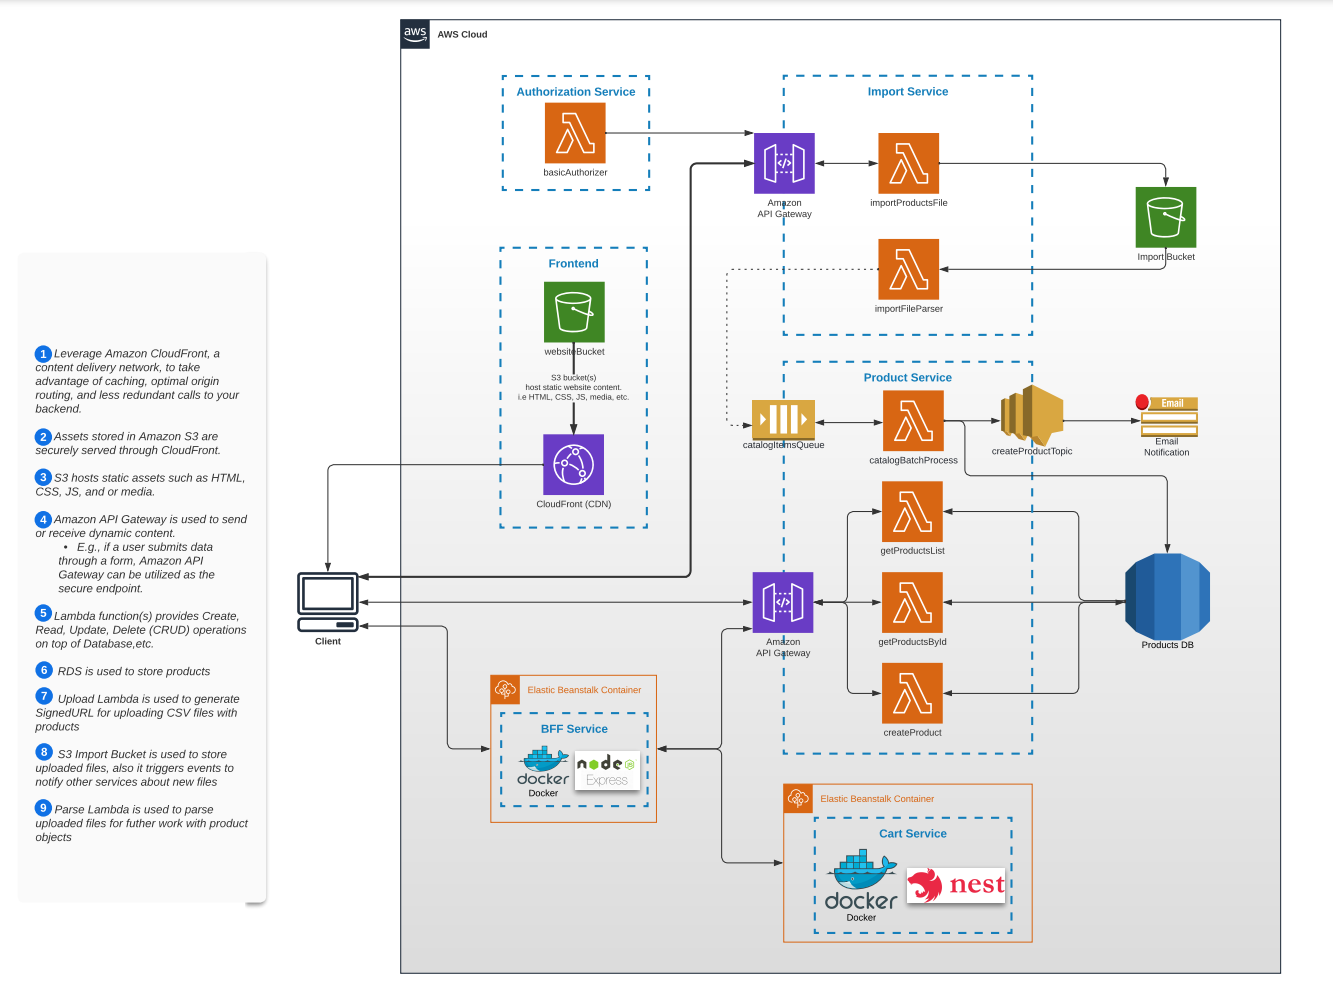
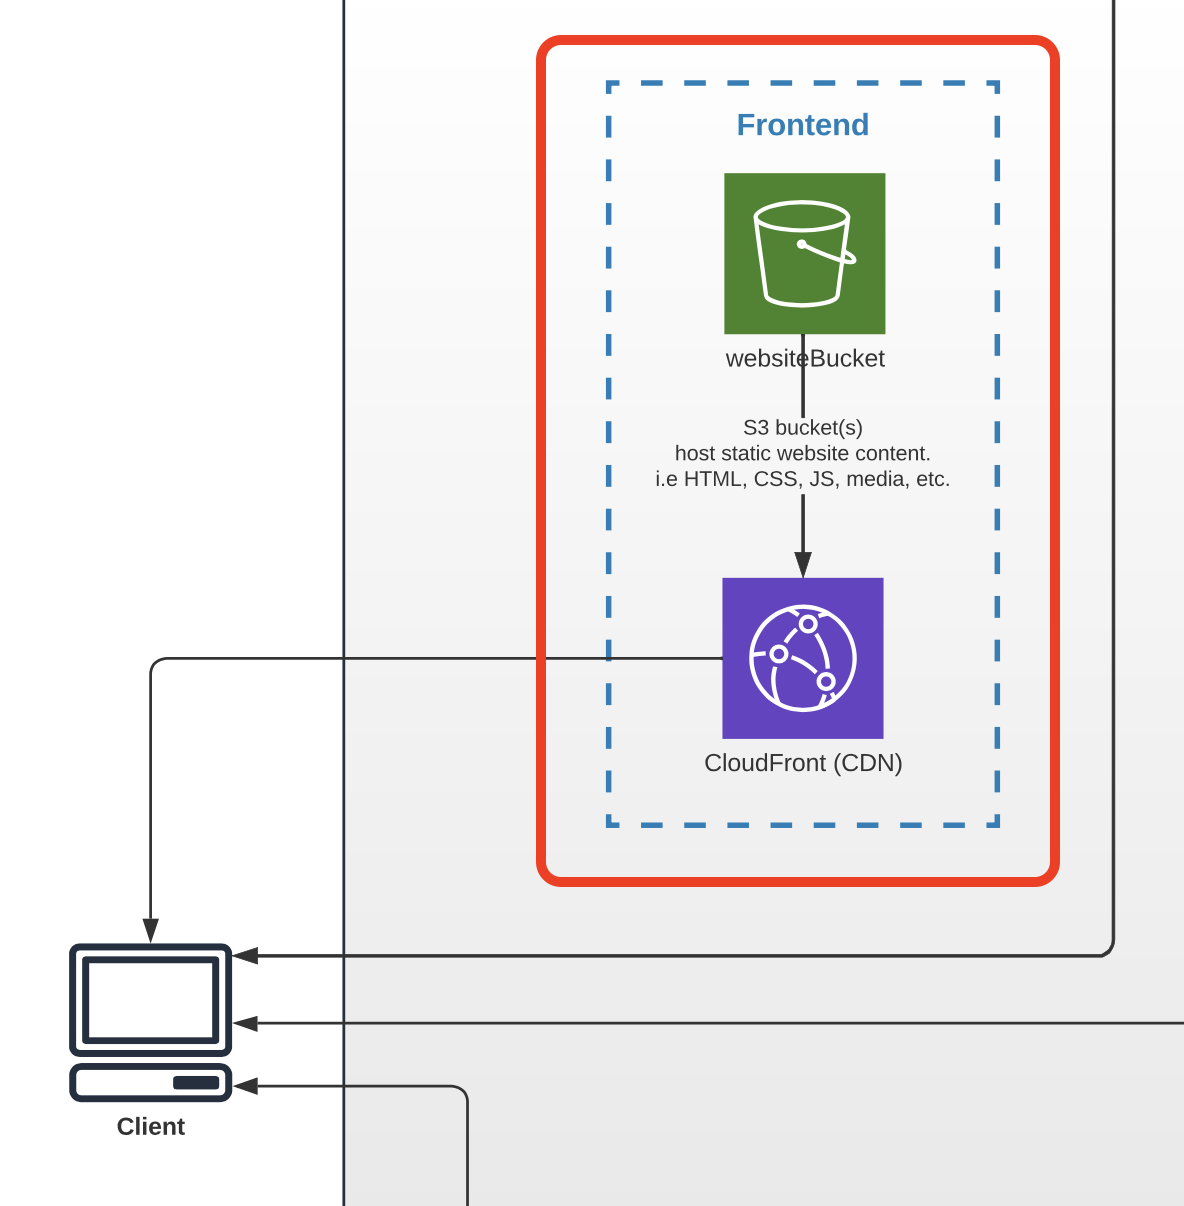
feat: serving spa

diff --git a/README.md b/README.md
@@ -1,90 +1,10 @@
-# AWS Cloud Developer
-First steps in modern cloud development with AWS
+# Task 2 - Serve SPA in AWS S3 and Cloudfront Services #
 
-## Description
+- **S3 URL:** [http://aws-myshop-s3-bucket.s3-website-us-east-1.amazonaws.com/](http://aws-myshop-s3-bucket.s3-website-us-east-1.amazonaws.com/)
 
-🚀 Comprehensive Journey: Embark on a step-by-step journey to become an AWS Certified Developer - Associate through this course.
 
-🛠️ 10+ Hands-on Practice Tasks: Gain practical experience working with various AWS services and technologies via over 10 hands-on tasks.
+- **CloudFront URL:** [d3iogd8pacgzjc.cloudfront.net](d3iogd8pacgzjc.cloudfront.net)
 
-🎯 Certification Ready: Be well-prepared to pass the ["AWS Certified Developer - Associate"]((https://aws.amazon.com/certification/certified-developer-associate/)) certification and confidently apply your skills in real-world projects by the end of the course
+## Architecture ##
 
-## What you should know before starting
-
-You should be comfortable with at least one programming language (such as Python, JavaScript, Java, or C#) and have a good understanding of basic web development concepts, including HTML, CSS, and JavaScript.
-
-English language level: Intermediate (B1) and up.
-Being able to spend at least 10 hours per week studying.
-
-## Course Architecture
-
-This program covers a wide range of topics according to the following 
 ![alt text](image.png)
-
-## Course Curriculum
-
-This program will have theory and practice on the following topics:
-
-### Module 1 - [Cloud Introduction](01_cloud_introduction/README.md)
-- Fundamental Theory about Cloud Computing
-- Cloud Service Models, Cloud Deployment Models, Infrastructure-as-Code
-- Monolith vs Microservices vs Serverless
-- AWS Intro, Registration, Cloud Watch, IAM
-- Repository structure
-
-### Module 2 - [Serving SPA](02_serving_spa/README.md)
-- AWS Simple Storage Service overview
-- Services & Tools overview
-- AWS CloudFront overview
-- Basic overview of deployment process to CloudFront and S3
-- AWS CLI overview
-
-### Module 3 - [Serverless API](03_serverless_api/README.md)
-- AWS Lambda Overview
-- Introduction to Collecting logs with AWS CloudWatch
-- Lambda Advanced Features and Configuration
-
-### Module 4 - [Integration with NoSQL Database](04_integration_with_nosql_database/README.md)
-- Easy way to store data in Cloud
-- AWS DynamoDB and how to use it
-
-### Module 5 - [Integration with S3](05_integration_with_s3/README.md)
-- AWS S3 In-depth Introduction
-- S3 Storage Classes and their Use Cases
-- S3 Access Control & Encryption
-- S3 Versioning, Lifecycle Management & Events
-- Integration with S3 and Lambda Overview
-
-### Module 6 - [Async Microservices Communication](06_async_microservices_communication/README.md)
-- Async Messaging Overview
-- AWS SQS Overview
-- AWS SNS Overview
-- Integration with SQS, SNS and Lambda Overview
-
-### Module 7 - [Authorization](07_authorization/README.md)
-- Authentication & Authorization overview
-- Lambda Authorizer & API Gateway
-- AWS Cognito overview
-- Cognito User Pool
-- Cognito Identity Pool
-
-### Module 8 - [Integration with SQL Database](08_integration_with_sql_database/README.md)
-- Relational Databases Theory
-- SQL Overview
-- Overview of AWS database offering
-- AWS RDS and its engines
-- Serverless functions & AWS RDS
-
-### Module 9 - [Containerization](09_containerization/README.md)
-- Docker overview
-- Dockerfiles & Images
-- Containers & VMs
-- Docker Build Optimizations
-- AWS Elastic Beanstalk overview
-- AWS EB CLI
-
-### Module 10 - [Backend For Frontend](10_backend_for_frontend/README.md)
-- Backend for Frontend overview
-- BFF as Pattern
-- API Gateway as BFF
-- AWS Elastic Beanstalk configuration